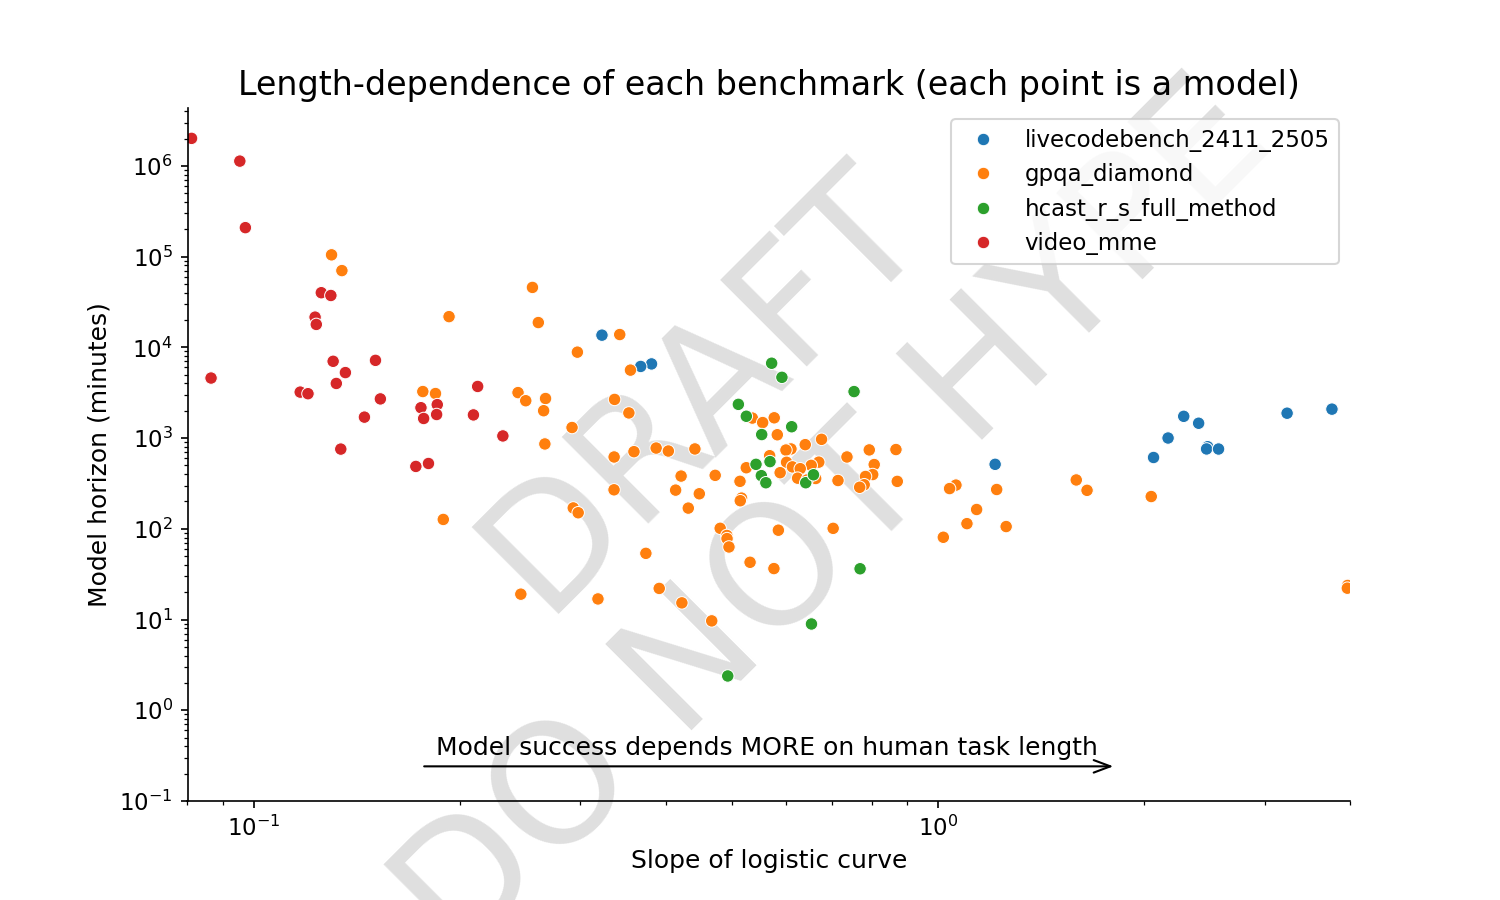
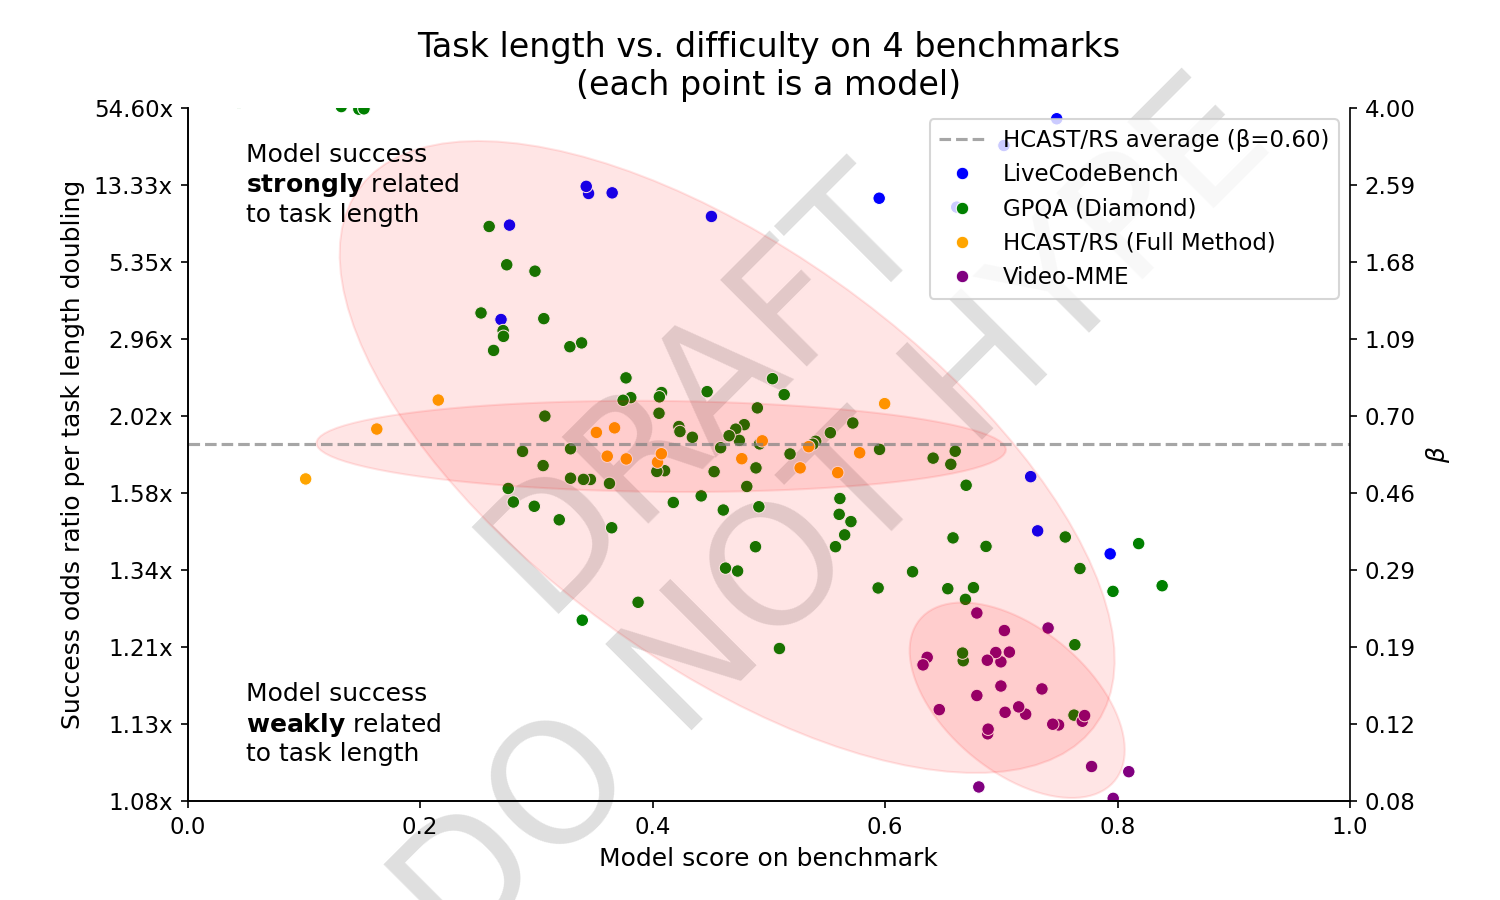
beta and other plot improvements

diff --git a/plots.py b/plots.py
@@ -24,6 +24,7 @@ from plot_speculation import plot_speculation
 BENCHMARKS_PATH = 'data/benchmarks'
 
 SCATTER_PLOT_OUTPUT_FILE = 'plots/scatter.png'
+HEADLINE_PLOT_OUTPUT_FILE = 'plots/headline.png'
 LINES_PLOT_OUTPUT_FILE = 'plots/lines_over_time.png'
 LINES_SUBPLOTS_OUTPUT_FILE = 'plots/lines_over_time_subplots.png'
 BENCHMARK_TASK_LENGTHS_OUTPUT_FILE = 'plots/benchmark_task_lengths.png'
@@ -48,6 +49,7 @@ class LinesPlotParams:
     show_points_level: ShowPointsLevel
     show_benchmarks: list[str] = field(default_factory=list)
     hide_benchmarks: list[str] = field(default_factory=list)
+    show_dotted_lines: bool = True
     show_doubling_rate: bool = False
     subplots: bool = False
     title: str = "Time Horizon vs. Release Date (Log Scale, Trend on Frontier)"
@@ -253,8 +255,9 @@ def plot_lines_over_time(df, output_file,
             thick = (bench == "hcast_r_s") and not params.subplots
 
             ax.plot(x_line_date[mask_within], y_line[mask_within], color=color, linestyle='-', linewidth=5 if thick else 2.5, label=f"{benchmark_aliases[bench]}", zorder=100 if thick else None)
-            ax.plot(x_line_date[mask_above], y_line[mask_above], color=color, alpha=0.3, linestyle=densely_dotted, linewidth=2)
-            ax.plot(x_line_date[mask_below], y_line[mask_below], color=color, alpha=0.3, linestyle=densely_dotted, linewidth=2)
+            if params.show_dotted_lines:
+                ax.plot(x_line_date[mask_above], y_line[mask_above], color=color, alpha=0.3, linestyle=densely_dotted, linewidth=2)
+                ax.plot(x_line_date[mask_below], y_line[mask_below], color=color, alpha=0.3, linestyle=densely_dotted, linewidth=2)
 
             # Add text labels for first and last frontier points
             if not frontier_data.empty and params.show_points_level >= ShowPointsLevel.FIRST_AND_LAST:
@@ -307,12 +310,13 @@ def plot_lines_over_time(df, output_file,
 
     # Create a legend
     handles, labels = ax.get_legend_handles_labels()
-
     trend_legend_handles = []
-    handle1, = ax.plot([], [], color='black', linestyle='-', linewidth=2, label="Inside range")
-    trend_legend_handles.append(handle1)
-    handle2, = ax.plot([], [], color='black', linestyle=densely_dotted, alpha=0.4, linewidth=2, label="Outside range")
-    trend_legend_handles.append(handle2)
+    if params.show_dotted_lines:
+
+        handle1, = ax.plot([], [], color='black', linestyle='-', linewidth=2, label="Inside range")
+        trend_legend_handles.append(handle1)
+        handle2, = ax.plot([], [], color='black', linestyle=densely_dotted, alpha=0.4, linewidth=2, label="Outside range")
+        trend_legend_handles.append(handle2)
 
     # Create fit quality legend
     fit_quality_handles = []
@@ -332,8 +336,9 @@ def plot_lines_over_time(df, output_file,
     
     if not params.subplots:
         bench_legend = ax.legend(handles=handles, labels=labels, title='Benchmark', bbox_to_anchor=(0.02, 1), loc='upper left')
-        ax.add_artist(trend_legend)
-        ax.add_artist(fit_quality_legend)
+        if params.show_dotted_lines:
+            ax.add_artist(trend_legend)
+            ax.add_artist(fit_quality_legend)
 
         if texts:
             adjustText.adjust_text(texts, ax=ax,
@@ -422,7 +427,7 @@ def plot_benchmarks(df: pd.DataFrame, benchmark_data: dict[str, list[float]], ou
 
 def plot_length_dependence(df: pd.DataFrame, output_file: pathlib.Path):
     """
-    Plots the length dependence of the horizon.
+    Plots the relationship between task length and difficulty
     """
     fig, ax = plt.subplots(figsize=(10, 6))
     add_watermark(ax)
@@ -431,24 +436,106 @@ def plot_length_dependence(df: pd.DataFrame, output_file: pathlib.Path):
 
     df_to_use = df[df['benchmark'].isin(benchmarks_to_use)]
 
-    arr = mpatches.FancyArrowPatch((0.2, 0.05), (0.8, 0.05),
-                               arrowstyle='->,head_width=.15', mutation_scale=20,
-                               transform=ax.transAxes)
-    ax.add_patch(arr)
-    ax.annotate("Model success depends MORE on human task length", (.5, 1), xycoords=arr, ha='center', va='bottom', fontsize=12)
+    # Calculate HCAST average slope
+    hcast_data = df[df['benchmark'] == 'hcast_r_s']
+    hcast_avg_slope = hcast_data['slope'].mean() if not hcast_data.empty else 0.6
 
+    ax.axhline(y=hcast_avg_slope, color='gray', linestyle='--', alpha=0.7, label=f'HCAST/RS average (β={hcast_avg_slope:.2f})')
 
-    sns.scatterplot(data=df_to_use, y='horizon', x='slope', hue='benchmark', ax=ax)
+    ax.annotate("Model success\n$\\mathbf{strongly}$ related\nto task length", (0.05, 0.95), xycoords='axes fraction', ha='left', va='top', fontsize=12)
+    ax.annotate("Model success\n$\\mathbf{weakly}$ related\nto task length", (0.05, 0.05), xycoords='axes fraction', ha='left', va='bottom', fontsize=12)
 
-    ax.set_xlabel("Slope of logistic curve")
-    ax.set_ylabel("Model horizon (minutes)")
+    
 
-    ax.set_xlim(0.08, 4)
+    # Create custom color palette avoiding red for data points
+    custom_palette = ["blue", "green", "orange", "purple"]
+    sns.scatterplot(data=df_to_use, x='score', y='slope', hue='benchmark', ax=ax, palette=custom_palette)
+
+    # Add bounding ellipses for specific benchmarks
+    import numpy as np
+    
+    ellipse_benchmarks = ["hcast_r_s_full_method", "gpqa_diamond", "video_mme"]
+    
+    for bench in ellipse_benchmarks:
+        bench_data = df_to_use[df_to_use['benchmark'] == bench]
+        if len(bench_data) >= 2:  # Need at least 2 points for an ellipse
+            # Work in log space for y-coordinates to fit ellipse
+            x = bench_data['score'].values
+            y_log = np.log(bench_data['slope'].values)
+            
+            # Calculate mean and covariance in log space
+            mean_x = np.mean(x)
+            mean_y_log = np.mean(y_log)
+            
+            # Calculate covariance matrix
+            cov = np.cov(x, y_log)
+            
+            # Calculate eigenvalues and eigenvectors
+            eigenvals, eigenvecs = np.linalg.eigh(cov)
+            
+            # Calculate ellipse parameters (2 standard deviations)
+            a = 2 * np.sqrt(eigenvals[0])  # semi-major axis
+            b = 2 * np.sqrt(eigenvals[1])  # semi-minor axis
+            angle_rad = np.arctan2(eigenvecs[1, 0], eigenvecs[0, 0])
+            
+            # Generate ellipse boundary points in log space
+            t = np.linspace(0, 2*np.pi, 100)
+            ellipse_x = a * np.cos(t)
+            ellipse_y = b * np.sin(t)
+            
+            # Rotate ellipse
+            cos_angle = np.cos(angle_rad)
+            sin_angle = np.sin(angle_rad)
+            
+            x_rot = ellipse_x * cos_angle - ellipse_y * sin_angle
+            y_rot = ellipse_x * sin_angle + ellipse_y * cos_angle
+            
+            # Translate to center and convert y back to linear scale
+            ellipse_x_final = x_rot + mean_x
+            ellipse_y_final = np.exp(y_rot + mean_y_log)  # Convert back from log space
+            
+            # Plot ellipse boundary in red
+            ax.fill(ellipse_x_final, ellipse_y_final, color='red', alpha=0.1, edgecolor='red', linewidth=1)
+
+    ax.set_ylabel("Success odds ratio per task length doubling")
+    ax.set_xlabel("Model score on benchmark")
+
+    ax.set_ylim(0.08, 4)
     ax.set_yscale('log')
-    ax.set_xscale('log')
-    ax.set_ylim(bottom=0.1)
-    ax.set_title("Length-dependence of each benchmark (each point is a model)")
-    ax.legend()
+    ax.set_xlim(0, 1)
+    
+    # Format y-axis ticks to show odds ratios (exp of slope values)
+    from matplotlib.ticker import FuncFormatter, FixedLocator
+    def odds_ratio_formatter(x, pos):
+        return f'{np.exp(x):.2f}x'
+    
+    # Set specific tick locations for denser labeling
+    tick_locations = np.logspace(np.log10(0.08), np.log10(4), 10)
+    ax.yaxis.set_major_locator(FixedLocator(tick_locations))
+    ax.yaxis.set_minor_locator(FixedLocator([]))  # Remove minor ticks
+    ax.yaxis.set_major_formatter(FuncFormatter(odds_ratio_formatter))
+    
+    # Add secondary y-axis on the right showing original β values
+    ax2 = ax.twinx()
+    ax2.set_ylim(ax.get_ylim())
+    ax2.set_yscale('log')
+    ax2.yaxis.set_major_locator(FixedLocator(tick_locations))
+    ax2.yaxis.set_minor_locator(FixedLocator([]))  # Remove minor ticks
+    
+    def beta_formatter(x, pos):
+        return f'{x:.2f}'
+    ax2.yaxis.set_major_formatter(FuncFormatter(beta_formatter))
+    ax2.set_ylabel(r'$\beta$')
+    
+    # Ensure the right spine is visible
+    ax2.spines['right'].set_visible(True)
+    
+    ax.set_title("Task length vs. model success on 4 benchmarks\n(each point is a model)")
+    
+    # Update legend to use benchmark aliases
+    handles, labels = ax.get_legend_handles_labels()
+    aliased_labels = [benchmark_aliases.get(label, label) for label in labels]
+    ax.legend(handles, aliased_labels)
 
     plt.savefig(output_file)
     print(f"Length dependence plot saved to {output_file}")
@@ -586,6 +673,8 @@ def main():
 
     # --- Lines Over Time Plot ---
     if "lines" in plots_to_make:
+        plot_lines_over_time(all_df.copy(), HEADLINE_PLOT_OUTPUT_FILE, benchmark_data, LinesPlotParams(hide_benchmarks=["hcast_r_s_full_method", "video_mme"], show_points_level=ShowPointsLevel.FIRST_AND_LAST, verbose=False, show_dotted_lines=False))
+
         # Generate and save the lines over time plot using the original loaded data
         plot_lines_over_time(all_df.copy(), LINES_PLOT_OUTPUT_FILE, benchmark_data, LinesPlotParams(hide_benchmarks=["hcast_r_s_full_method", "video_mme"], show_points_level=ShowPointsLevel.FRONTIER, verbose=False))
 

diff --git a/wrangle.py b/wrangle.py
@@ -4,6 +4,7 @@ import glob
 import re
 from scipy.stats import gmean
 import yaml
+import toml
 from pydantic import BaseModel, Field, validator
 from typing import Union, Dict, List, Optional, Literal
 import datetime
@@ -250,7 +251,17 @@ def load_data(data_dir):
 
     return merged_df
 
-
+def save_metrics(df: pd.DataFrame, out_file: str):
+    """
+    Saves metrics to a toml file, currently the largest horizon for each benchmark
+    """
+    metrics = {}
+    for benchmark in df['benchmark'].unique():
+        benchmark_df = df[df['benchmark'] == benchmark]
+        max_horizon = benchmark_df['horizon'].max()
+        metrics[benchmark] = {'max_horizon_minutes': float(max_horizon / 60)}
+    with open(out_file, 'w') as f:
+        toml.dump(metrics, f)
  
 
 if __name__ == "__main__":
@@ -259,3 +270,5 @@ if __name__ == "__main__":
     os.makedirs(os.path.dirname(out_file), exist_ok=True)
     df.to_csv(out_file, index=False)
     print(f"Data written to {out_file}")
+
+    save_metrics(df, os.path.join(DATA_DIR, 'processed', 'metrics.toml'))

diff --git a/hcast_r_s.py b/hcast_r_s.py
@@ -48,8 +48,8 @@ df_raw = pd.read_csv(source_horizons_file)
 
 print(df_raw.columns)
 # Select and rename columns
-df_processed = df_raw[["agent", "p50", "coefficient"]].copy()
-df_processed.rename(columns={"agent": "model", "p50": "horizon", "coefficient": "slope"}, inplace=True)
+df_processed = df_raw[["agent", "p50", "coefficient", "average"]].copy()
+df_processed.rename(columns={"agent": "model", "p50": "horizon", "coefficient": "slope", "average": "score"}, inplace=True)
 
 # Apply the name mapping
 df_processed["model"] = df_processed["model"].map(name_mapping)
@@ -72,8 +72,9 @@ df_processed["horizon"] = pd.to_numeric(df_processed["horizon"])
 # slope follows opposite sign convention
 df_processed["slope"] = -df_processed["slope"]
 
+
 # Write the processed data to the new CSV
-df_processed[["model", "horizon", "slope"]].to_csv(output_full_horizons_file, index=False)
+df_processed[["model", "horizon", "slope", "score"]].to_csv(output_full_horizons_file, index=False)
 
 
 def make_scores_toml(df_runs):

diff --git a/plot_speculation.py b/plot_speculation.py
@@ -181,8 +181,8 @@ def plot_speculation(df: pd.DataFrame, output_file: pathlib.Path):
     # Create evenly spaced percent ticks on the right axis
     percent_values = [20, 30, 40, 50, 60, 70, 80, 90, 100]
     percent_positions = [y_min + (p - 20) / 80 * (y_max - y_min) for p in percent_values]
-    uplift_values = [1 / (1 - p / 100) if p < 100 else np.inf for p in percent_values]
-    
+    uplift_values = [1 / (0.01 + 1 - p / 100) for p in percent_values]
+    print(uplift_values)
     ax2.set_yticks(percent_positions)
     ax2.set_yticklabels([f'{p:.1f}x' if p < np.inf else '∞' for p in uplift_values])
     ax2.set_ylabel('Uplift from Automation?')
@@ -198,3 +198,8 @@ def plot_speculation(df: pd.DataFrame, output_file: pathlib.Path):
     plt.close()
     
     print(f"Speculation plot saved to {output_file}")
+
+
+if __name__ == "__main__":
+    df = pd.read_csv("data/processed/all_data.csv")
+    plot_speculation(df, pathlib.Path("plots/speculation.png"))

diff --git a/hendrycks_math.py b/hendrycks_math.py
@@ -64,6 +64,7 @@ level_stats['mean_log2_time'] = level_stats['mean_log2_time'].round(2)
 level_stats['std_log2_time'] = level_stats['std_log2_time'].round(2)
 
 frac_correct = level_stats['num_correct'] / level_stats['num_total']
+print(level_stats)
 
 n_questions = 500
 

diff --git a/plotting_aliases.py b/plotting_aliases.py
@@ -1,7 +1,7 @@
 benchmark_aliases = {
     "aime": "AIME",
     "gpqa": "GPQA",
-    "gpqa_diamond": "GPQA (Diamond)",
+    "gpqa_diamond": "GPQA Diamond",
     "hcast_r_s": "HCAST/RS",
     "hcast_r_s_full_method": "HCAST/RS (Full Method)",
     "hendrycks_math": "MATH",
